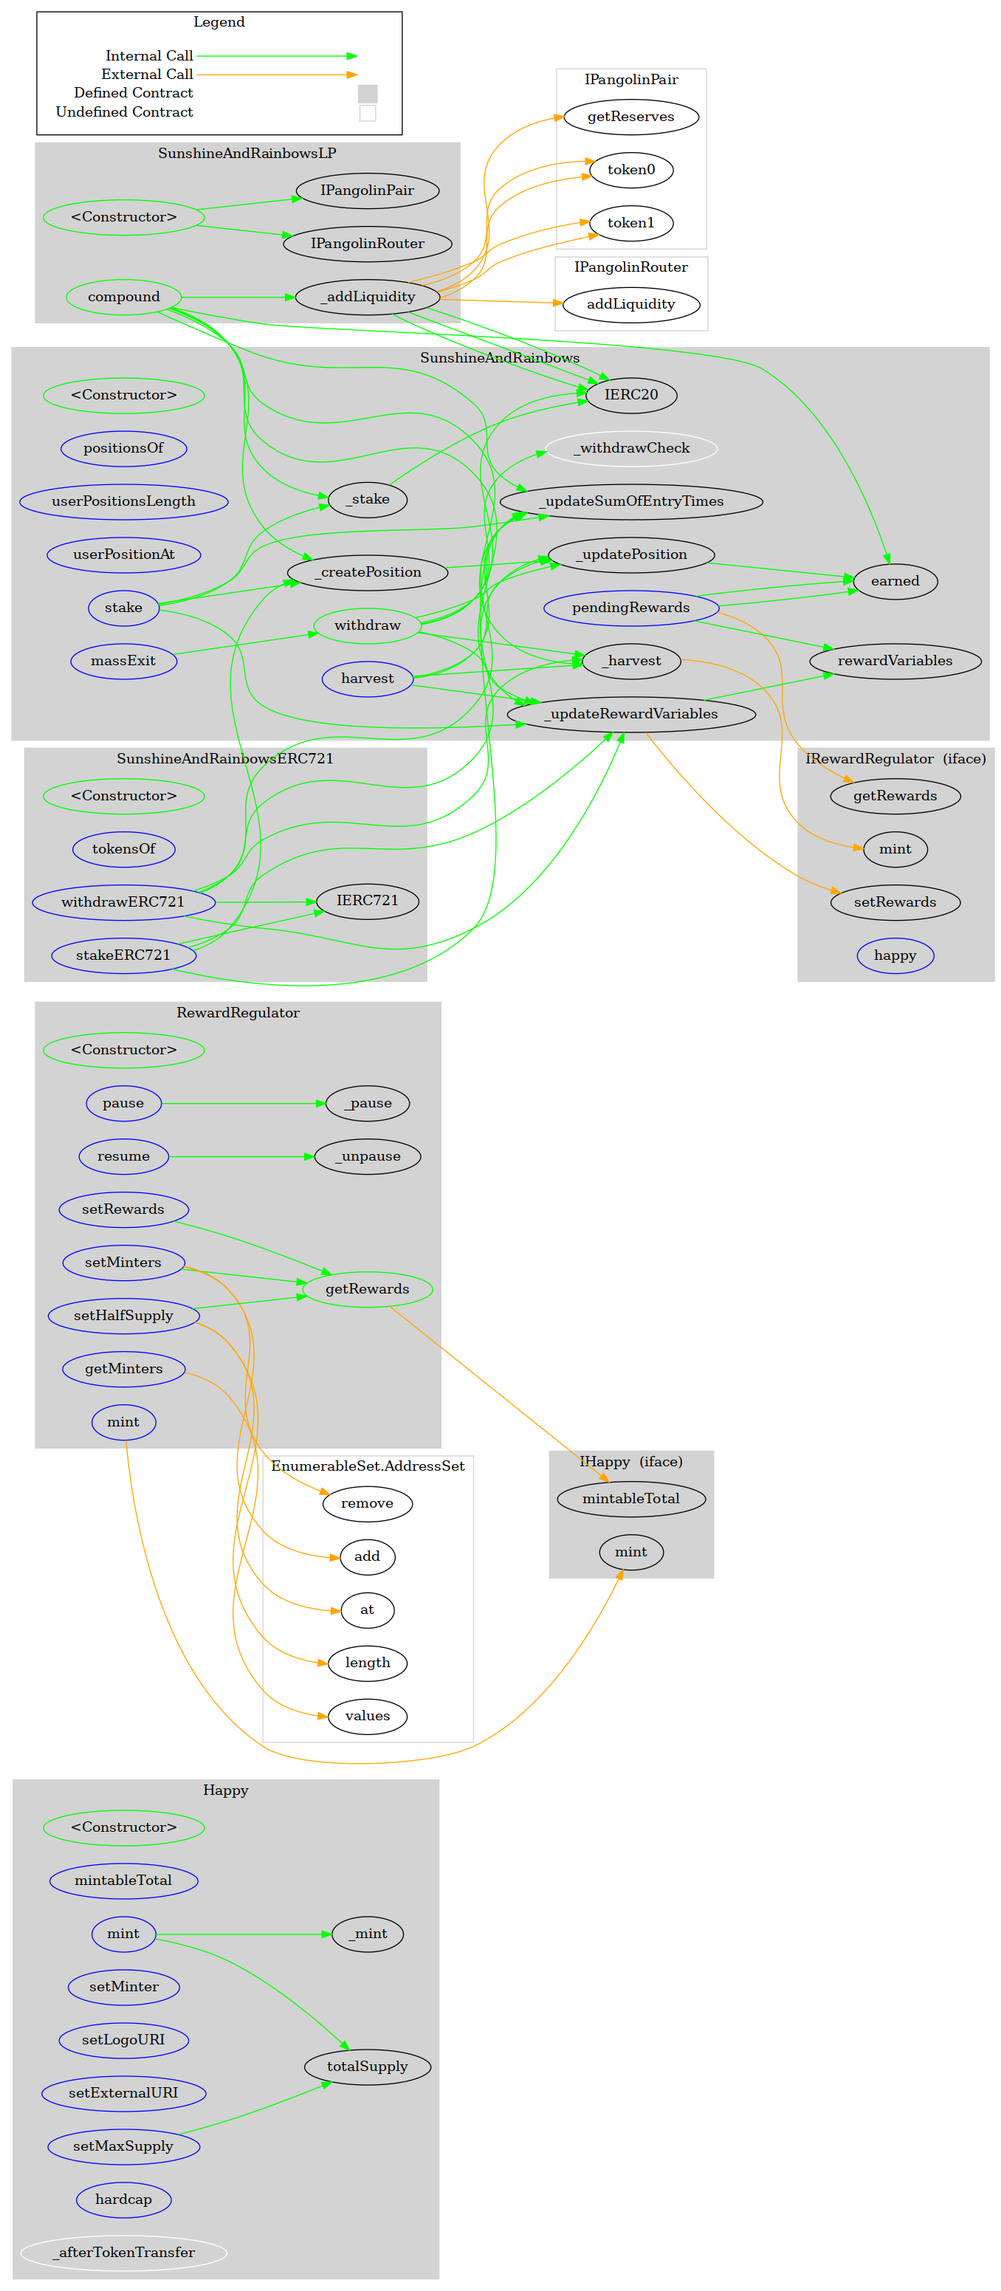
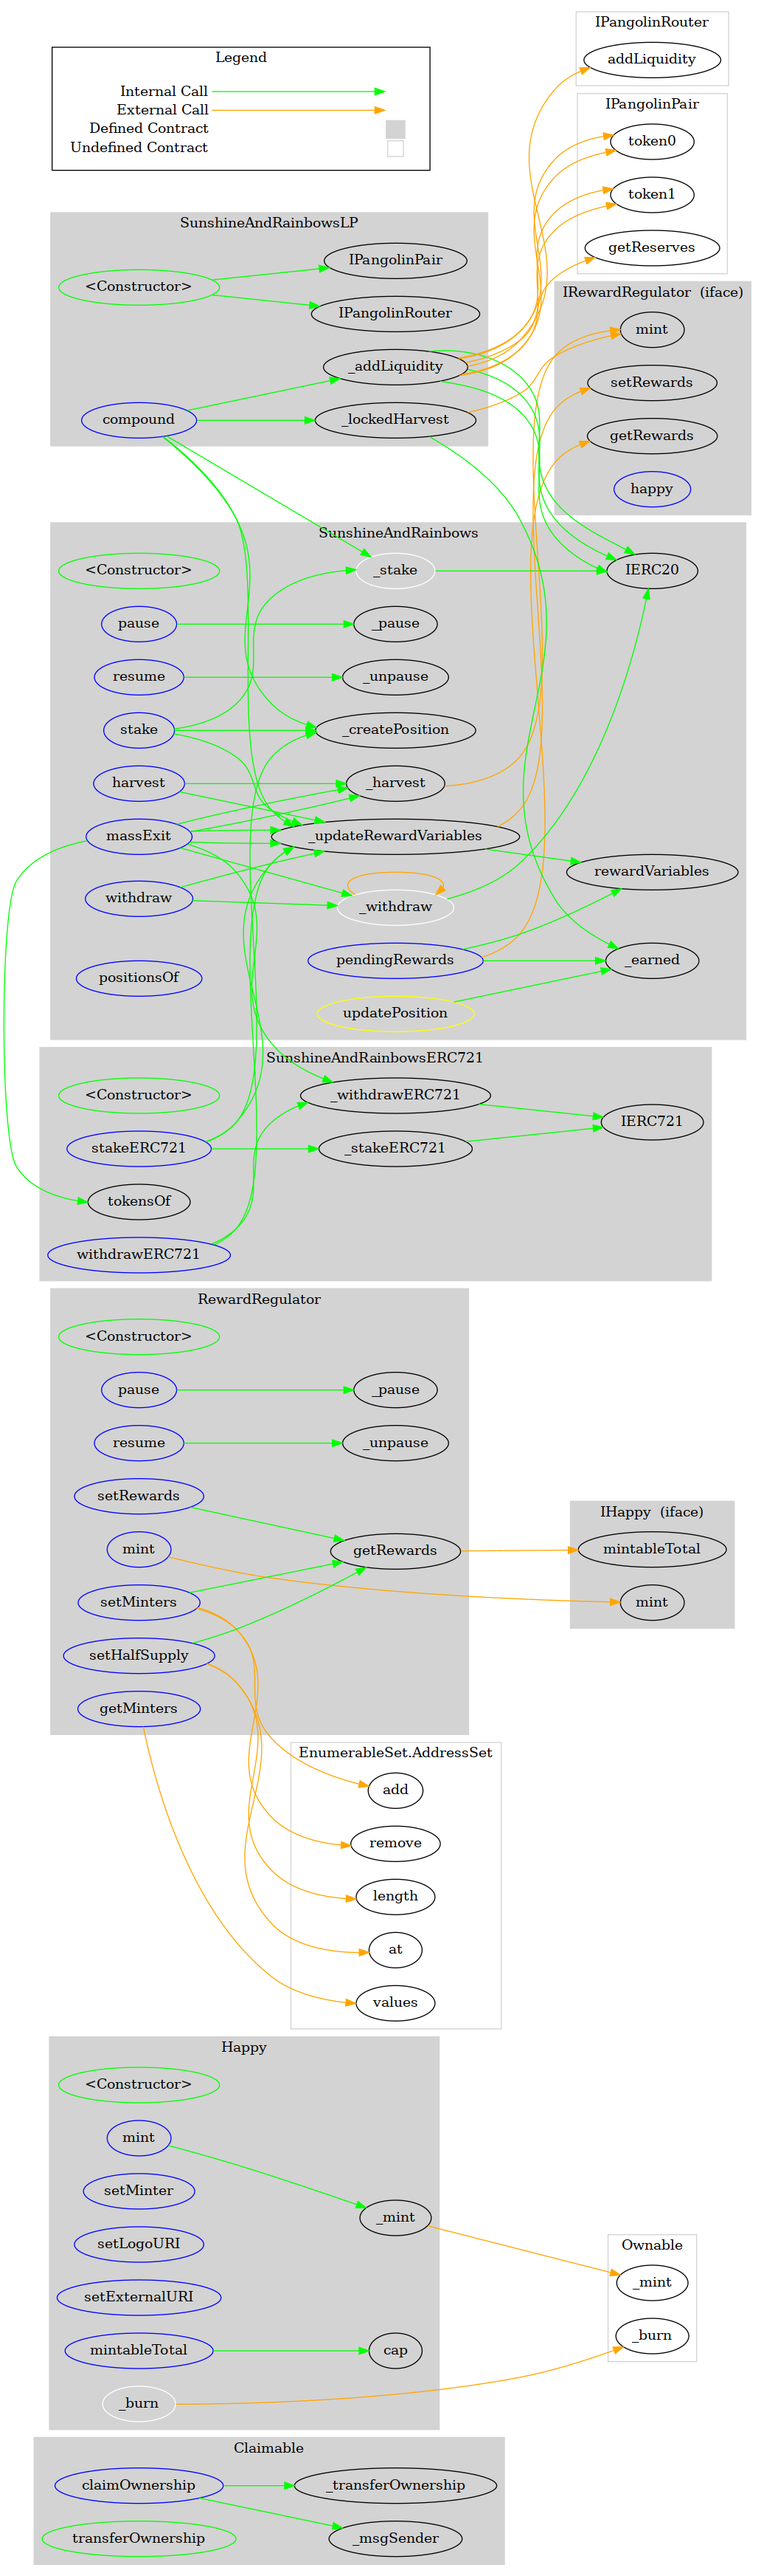
large refactoring

diff --git a/test/SunshineAndRainbows.js b/test/SunshineAndRainbows.js
@@ -155,7 +155,7 @@ describe("SunshineAndRainbows.sol", function () {
 
       await expect(
         this.sunshine.stake("0", this.admin.address)
-      ).to.be.revertedWith("SARS::stake: zero amount");
+      ).to.be.revertedWith("SARS::_stake: zero amount");
 
       expect(await this.sunshine.initTime()).to.equal("0");
       expect(await this.pgl.balanceOf(this.sunshine.address)).to.equal("0");
@@ -165,7 +165,7 @@ describe("SunshineAndRainbows.sol", function () {
       await this.pgl.approve(this.sunshine.address, TOTAL_SUPPLY);
 
       await expect(this.sunshine.stake("1", ZERO_ADDRESS)).to.be.revertedWith(
-        "SARS::stake: bad recipient"
+        "SARS::_createPosition: bad recipient"
       );
 
       expect(await this.sunshine.initTime()).to.equal("0");
@@ -242,6 +242,8 @@ describe("SunshineAndRainbows.sol", function () {
       expect(await this.sunshine.initTime()).to.equal(initTime);
       expect(await this.pgl.balanceOf(this.sunshine.address)).to.equal("1");
 
+      var position = await this.sunshine.positions("1");
+
       expect(await this.sunshine.withdraw("1", "1")).to.emit(
         this.sunshine,
         "Withdraw"
@@ -267,7 +269,7 @@ describe("SunshineAndRainbows.sol", function () {
         interval
       );
 
-      expect(position.reward).to.equal("0");
+      expect(position.reward).to.equal(rewards);
       expect(position.balance).to.equal("0");
       expect(position.lastUpdate).to.equal(secondStake);
       expect(position.rewardsPerStakingDuration).to.equal(
@@ -434,7 +436,7 @@ describe("SunshineAndRainbows.sol", function () {
       sunshine = await this.sunshine.connect(this.unauthorized);
 
       await expect(sunshine.harvest("1")).to.be.revertedWith(
-        "SARS::harvest: unauthorized"
+        "SARS::_harvest: unauthorized"
       );
 
       expect(await this.happy.balanceOf(this.admin.address)).to.equal("0");
@@ -491,7 +493,7 @@ describe("SunshineAndRainbows.sol", function () {
         interval
       );
 
-      expect(position.reward).to.equal("0");
+      expect(position.reward).to.equal(rewards);
       expect(position.balance).to.equal("0");
       expect(position.lastUpdate).to.equal(withdraw);
       expect(position.rewardsPerStakingDuration).to.equal(
@@ -500,20 +502,14 @@ describe("SunshineAndRainbows.sol", function () {
       expect(position.idealPosition).to.equal(idealPosition);
       expect(position.owner).to.equal(this.admin.address);
 
+      expect(await this.sunshine.harvest("1")).to.emit(
+        this.sunshine,
+        "Harvest"
+      );
+
       await expect(this.sunshine.harvest("1"))
         .to.be.revertedWith("SARS::harvest: no reward");
 
-      expect(await this.happy.balanceOf(this.admin.address)).to.equal(rewards);
-      expect(await this.happy.totalSupply()).to.equal(rewards);
-
-      var position = await this.sunshine.positions("1");
-      expect(position.reward).to.equal("0");
-      expect(position.balance).to.equal("0");
-      expect(position.lastUpdate).to.equal(withdraw);
-      expect(position.rewardsPerStakingDuration).to.equal(
-        rewardsPerStakingDuration
-      );
-      expect(position.idealPosition).to.equal(idealPosition);
     });
   });
 

diff --git a/test/SunshineAndRainbowsERC721.js b/test/SunshineAndRainbowsERC721.js
@@ -223,7 +223,7 @@ describe("SunshineAndRainbowsERC721.sol", function () {
 
       await expect(
         this.sunshine.stakeERC721(["1"], ZERO_ADDRESS)
-      ).to.be.revertedWith("SARS::stake: bad recipient");
+      ).to.be.revertedWith("SARS::_createPosition: bad recipient");
 
       expect(await this.sunshine.initTime()).to.equal("0");
       expect(await this.frens.balanceOf(this.sunshine.address)).to.equal("0");
@@ -328,7 +328,7 @@ describe("SunshineAndRainbowsERC721.sol", function () {
         interval
       );
 
-      expect(await this.happy.balanceOf(this.admin.address)).to.equal(rewards);
+      expect(await this.happy.balanceOf(this.admin.address)).to.equal("0");
       expect(position.balance).to.equal("0");
       expect(position.lastUpdate).to.equal(secondStake);
       expect(position.rewardsPerStakingDuration).to.equal(
@@ -377,7 +377,7 @@ describe("SunshineAndRainbowsERC721.sol", function () {
         interval
       );
 
-      expect(await this.happy.balanceOf(this.admin.address)).to.equal(rewards);
+      expect(await this.happy.balanceOf(this.admin.address)).to.equal("0");
       expect(position.balance).to.equal("1");
       expect(position.lastUpdate).to.equal(secondStake);
       expect(position.rewardsPerStakingDuration).to.equal(
